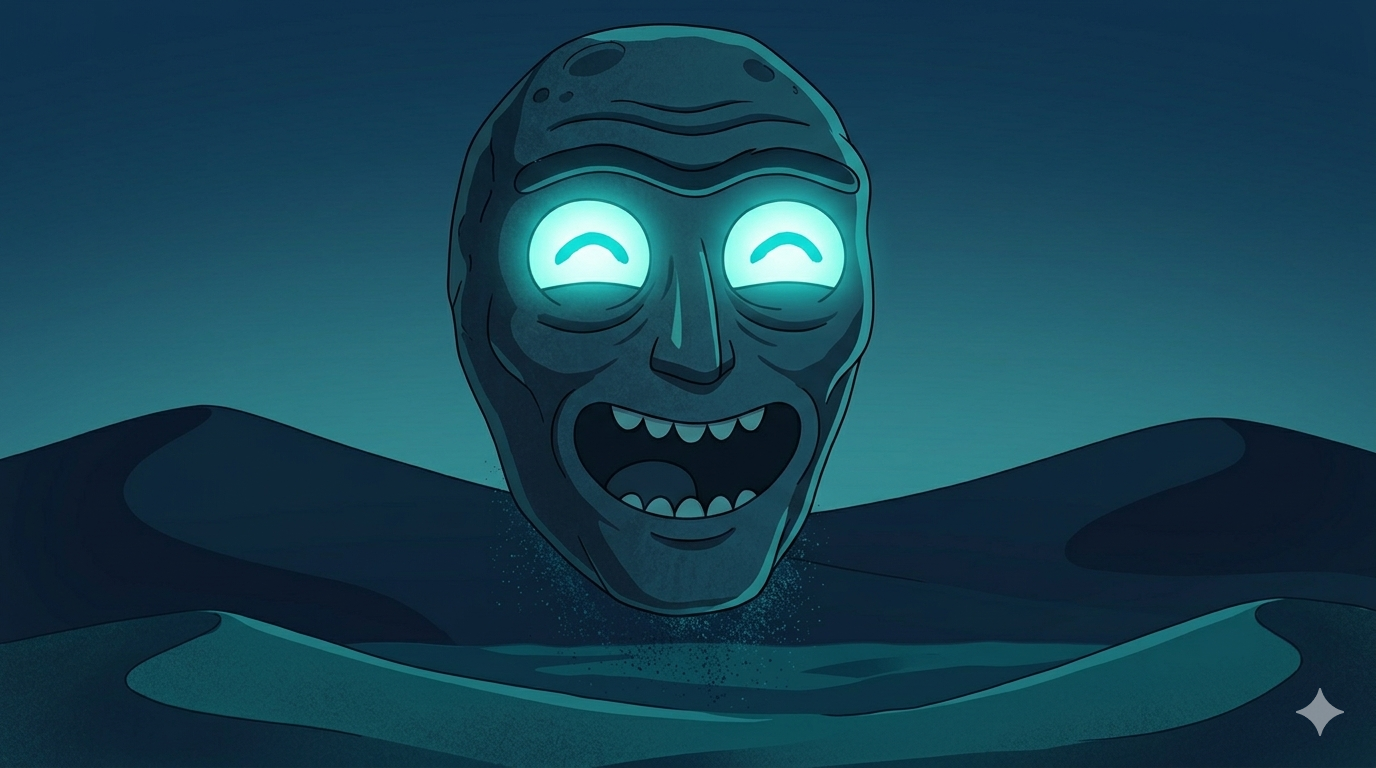
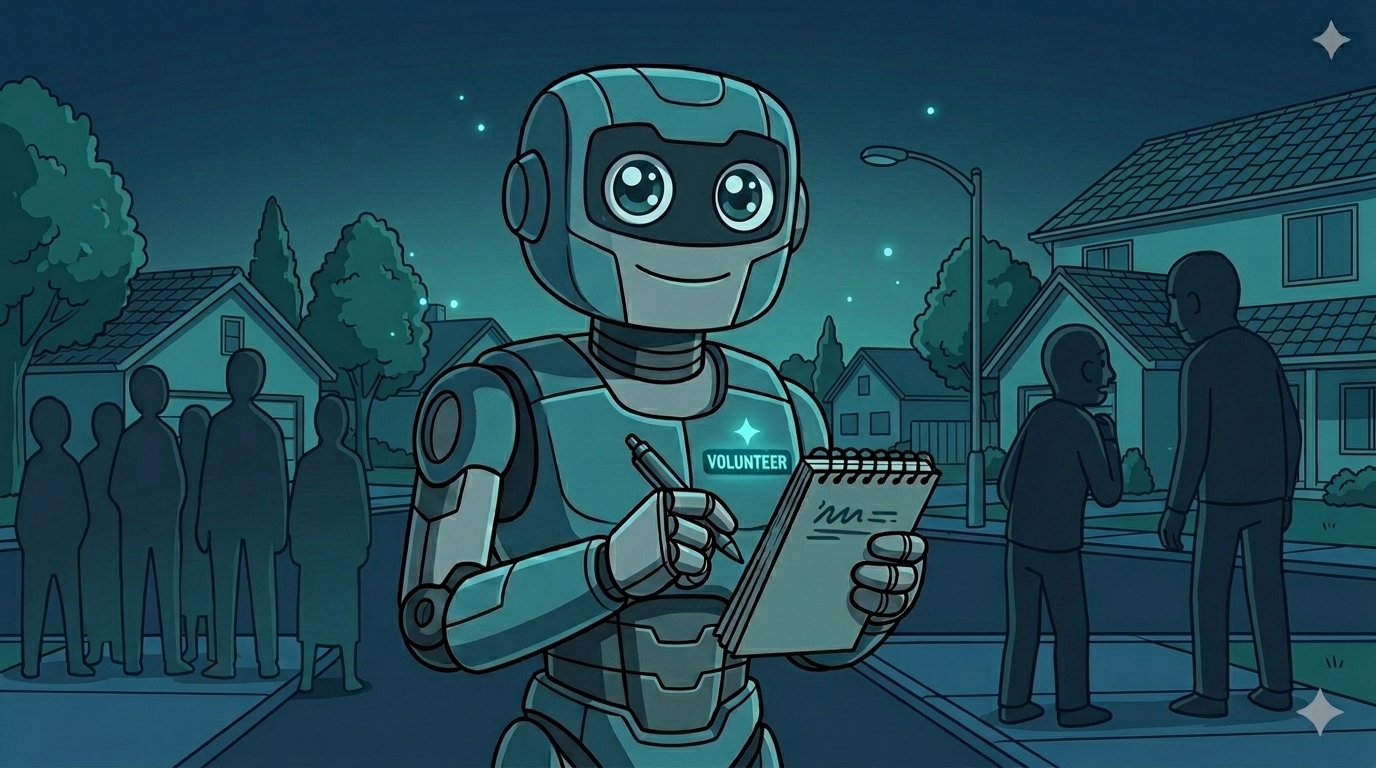
Update projects section with Survey Bot and Live Collab
Add AI Powered Survey Bot and Live Collab project cards, reorder the
lineup, and fix image assignments so each card matches its actual
project screenshot.

diff --git a/components/Projects.tsx b/components/Projects.tsx
@@ -140,32 +140,30 @@ export default function Projects() {
       size: "large",
     },
     {
+      title: "AI Powered Survey Bot",
+      description:
+        "A conversational survey bot that runs multi-turn surveys over SMS/chat, using an LLM (Claude via AI Gateway) to interpret free-text answers against a structured question schema, with response storage, survey/session config, and long-term conversational memory across retakes.",
+      tags: ["TypeScript", "Cloudflare", "Claude - AI Gateway", "Zep Cloud"],
+      image: "/images/project-2.jpg",
+      size: "small",
+    },
+    {
       title: "Show Me What You Got",
       description:
         "AI-powered movie and TV recommendation web app that understands natural-language preferences and returns personalized picks with rich metadata, trailers, and a polished responsive interface.",
       tags: ["Javascript", "Generative AI", "OpenRouter API", "HTML", "CSS"],
       githubUrl: "https://github.com/AdityaParuchuri/showMeWhatYouGot",
       liveUrl: "https://example.com",
-      image: "/images/project-2.jpg",
-      size: "small",
-    },
-    {
-      title: "AI Code Assistant",
-      description:
-        "ML-powered tool that analyzes code quality, detects bugs, and suggests improvements.",
-      tags: ["Python", "TensorFlow", "FastAPI", "Docker"],
-      githubUrl: "https://github.com",
-      liveUrl: "https://example.com",
       image: "/images/project-3.jpg",
       size: "small",
     },
     {
-      title: "Analytics Dashboard",
+      title: "Live Collab",
       description:
-        "Real-time data visualization platform for monitoring business metrics with custom charts and alerts.",
-      tags: ["TypeScript", "React", "D3.js", "GraphQL"],
-      githubUrl: "https://github.com",
-      liveUrl: "https://example.com",
+        "A real-time collaborative notes app that lets multiple users co-edit the same document concurrently over WebSockets (Socket.io), using Yjs CRDTs to merge simultaneous edits deterministically without locking or last-write-wins data loss, with live presence (avatar chips, per-line cursor indicators), debounced auto-save to MongoDB, and anonymous guest access via shareable document links — no accounts required.",
+      tags: ["TypeScript", "Node.js", "Express", "WebSockets (Socket.io)", "MongoDB"],
+      githubUrl: "https://github.com/AdityaParuchuri/live-collab",
+      liveUrl: "https://live-collab-z46r.onrender.com",
       image: "/images/project-4.jpg",
       size: "large",
     },
